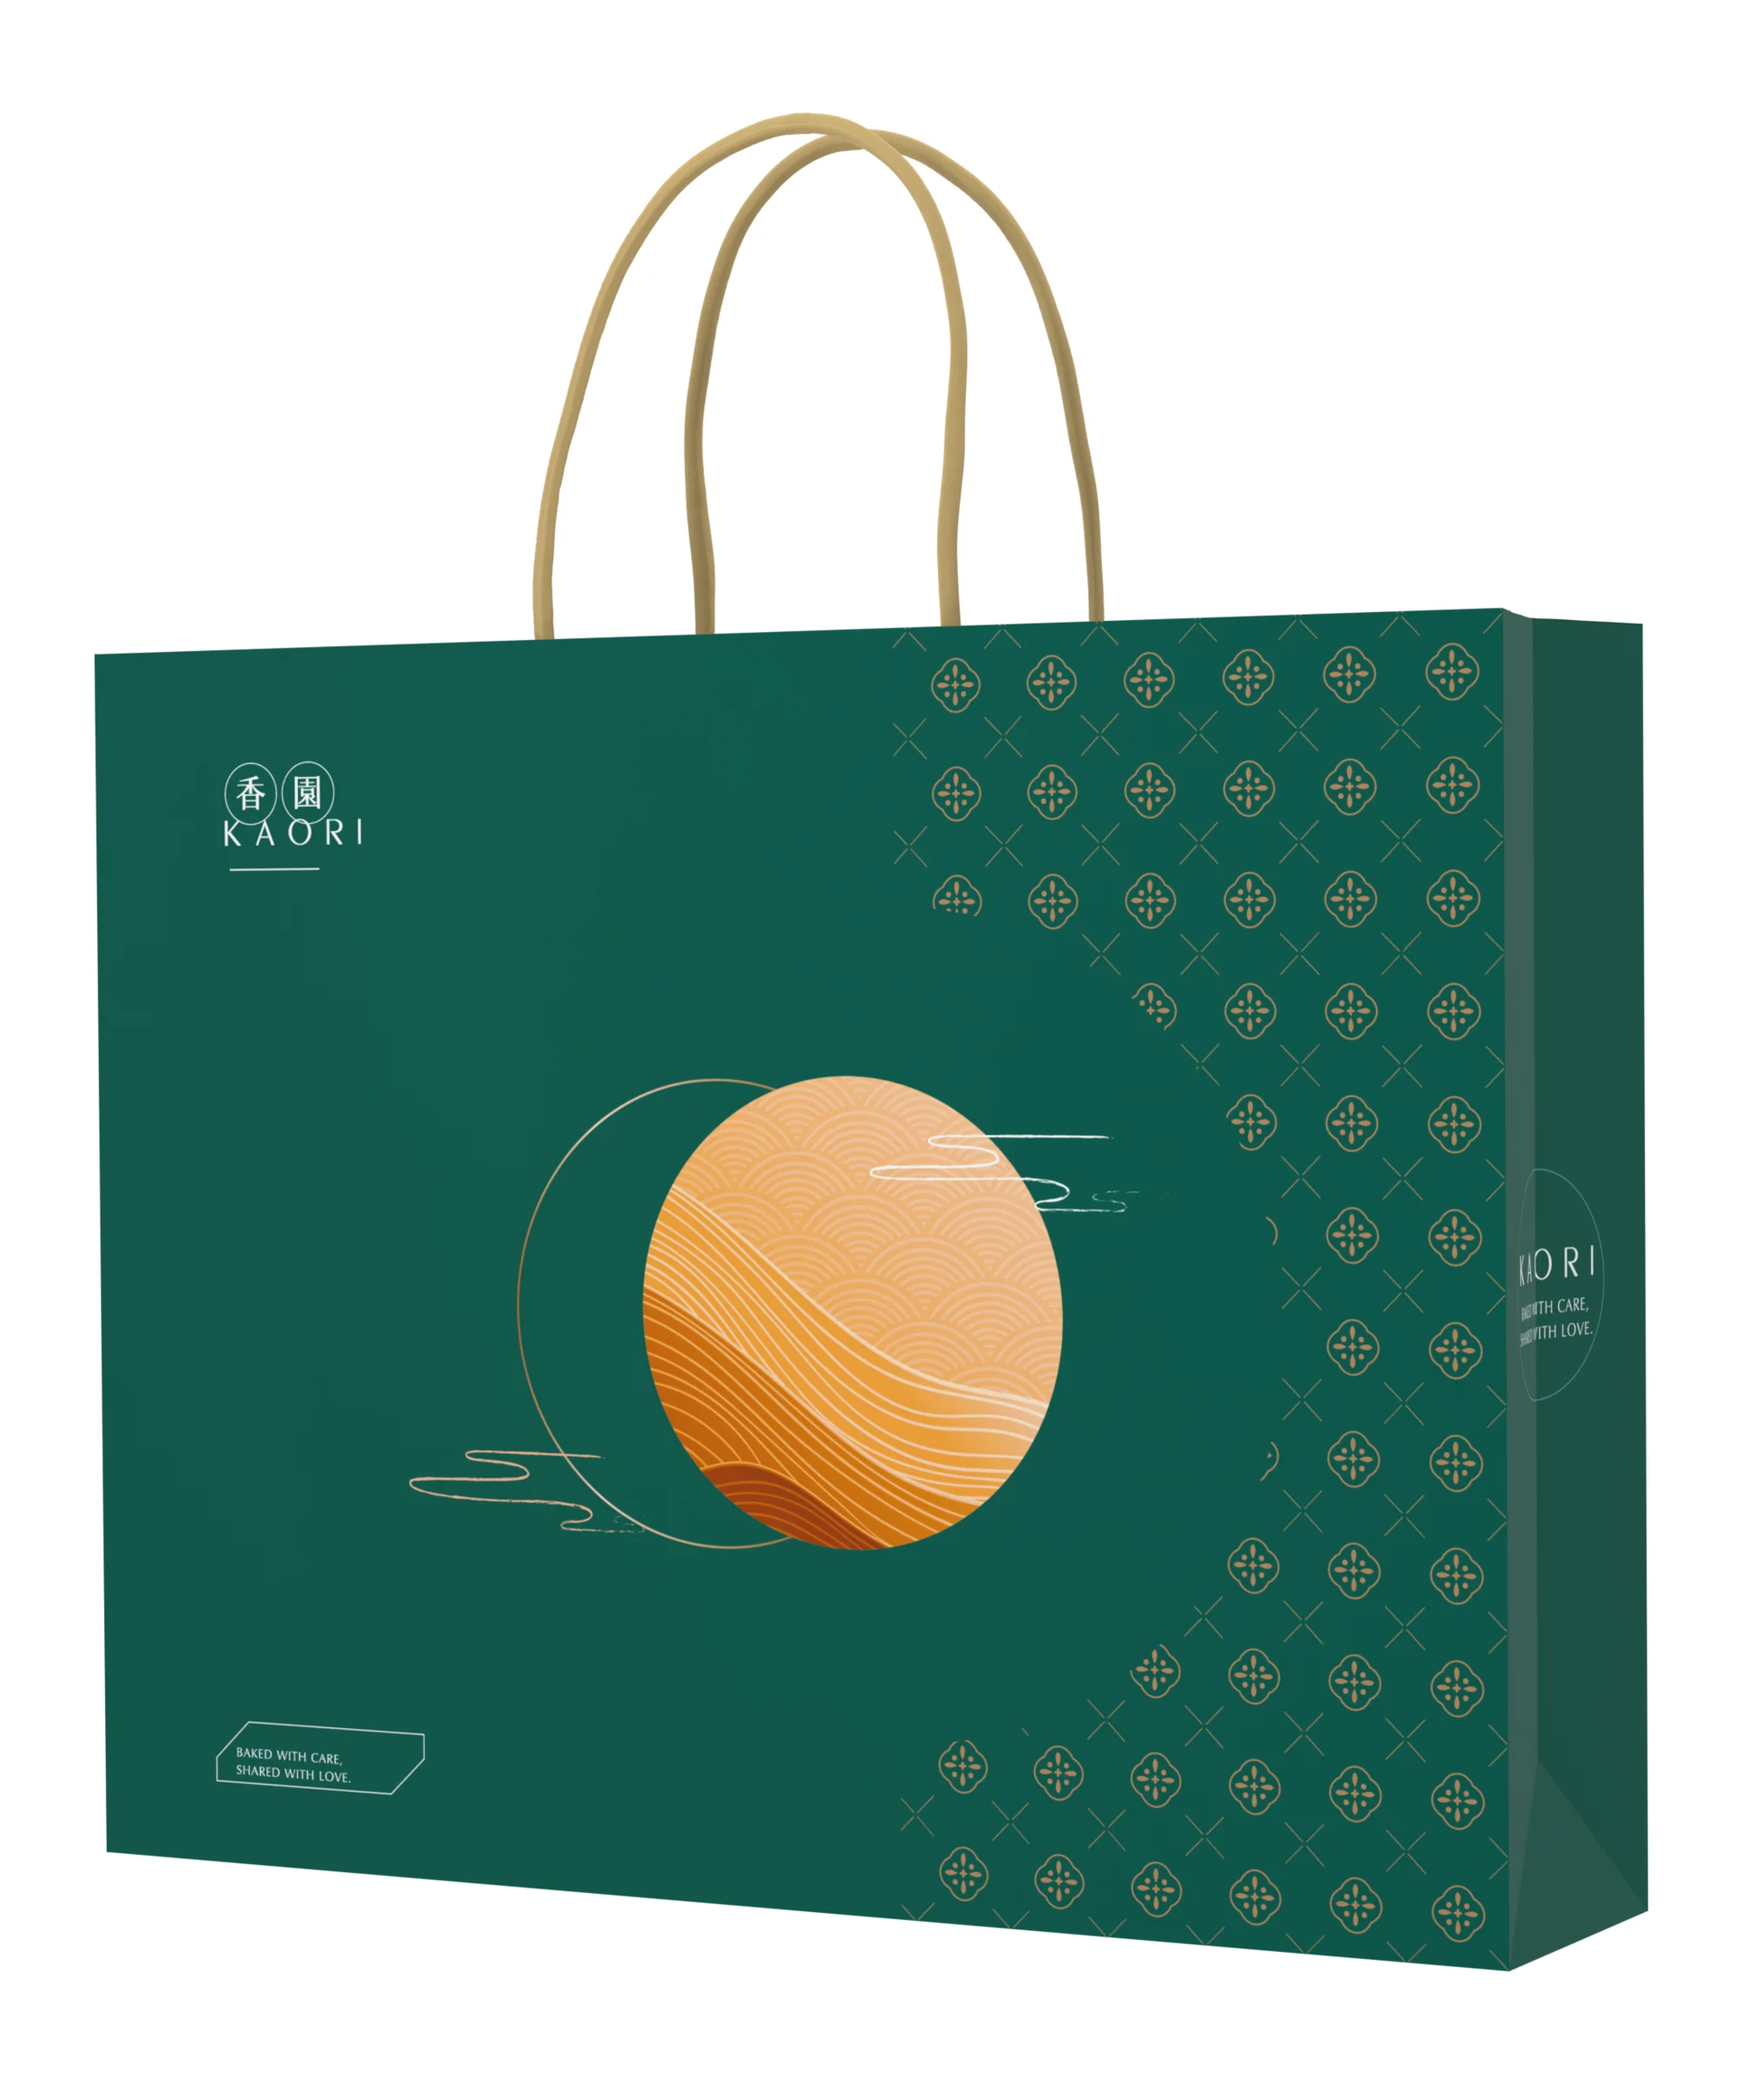
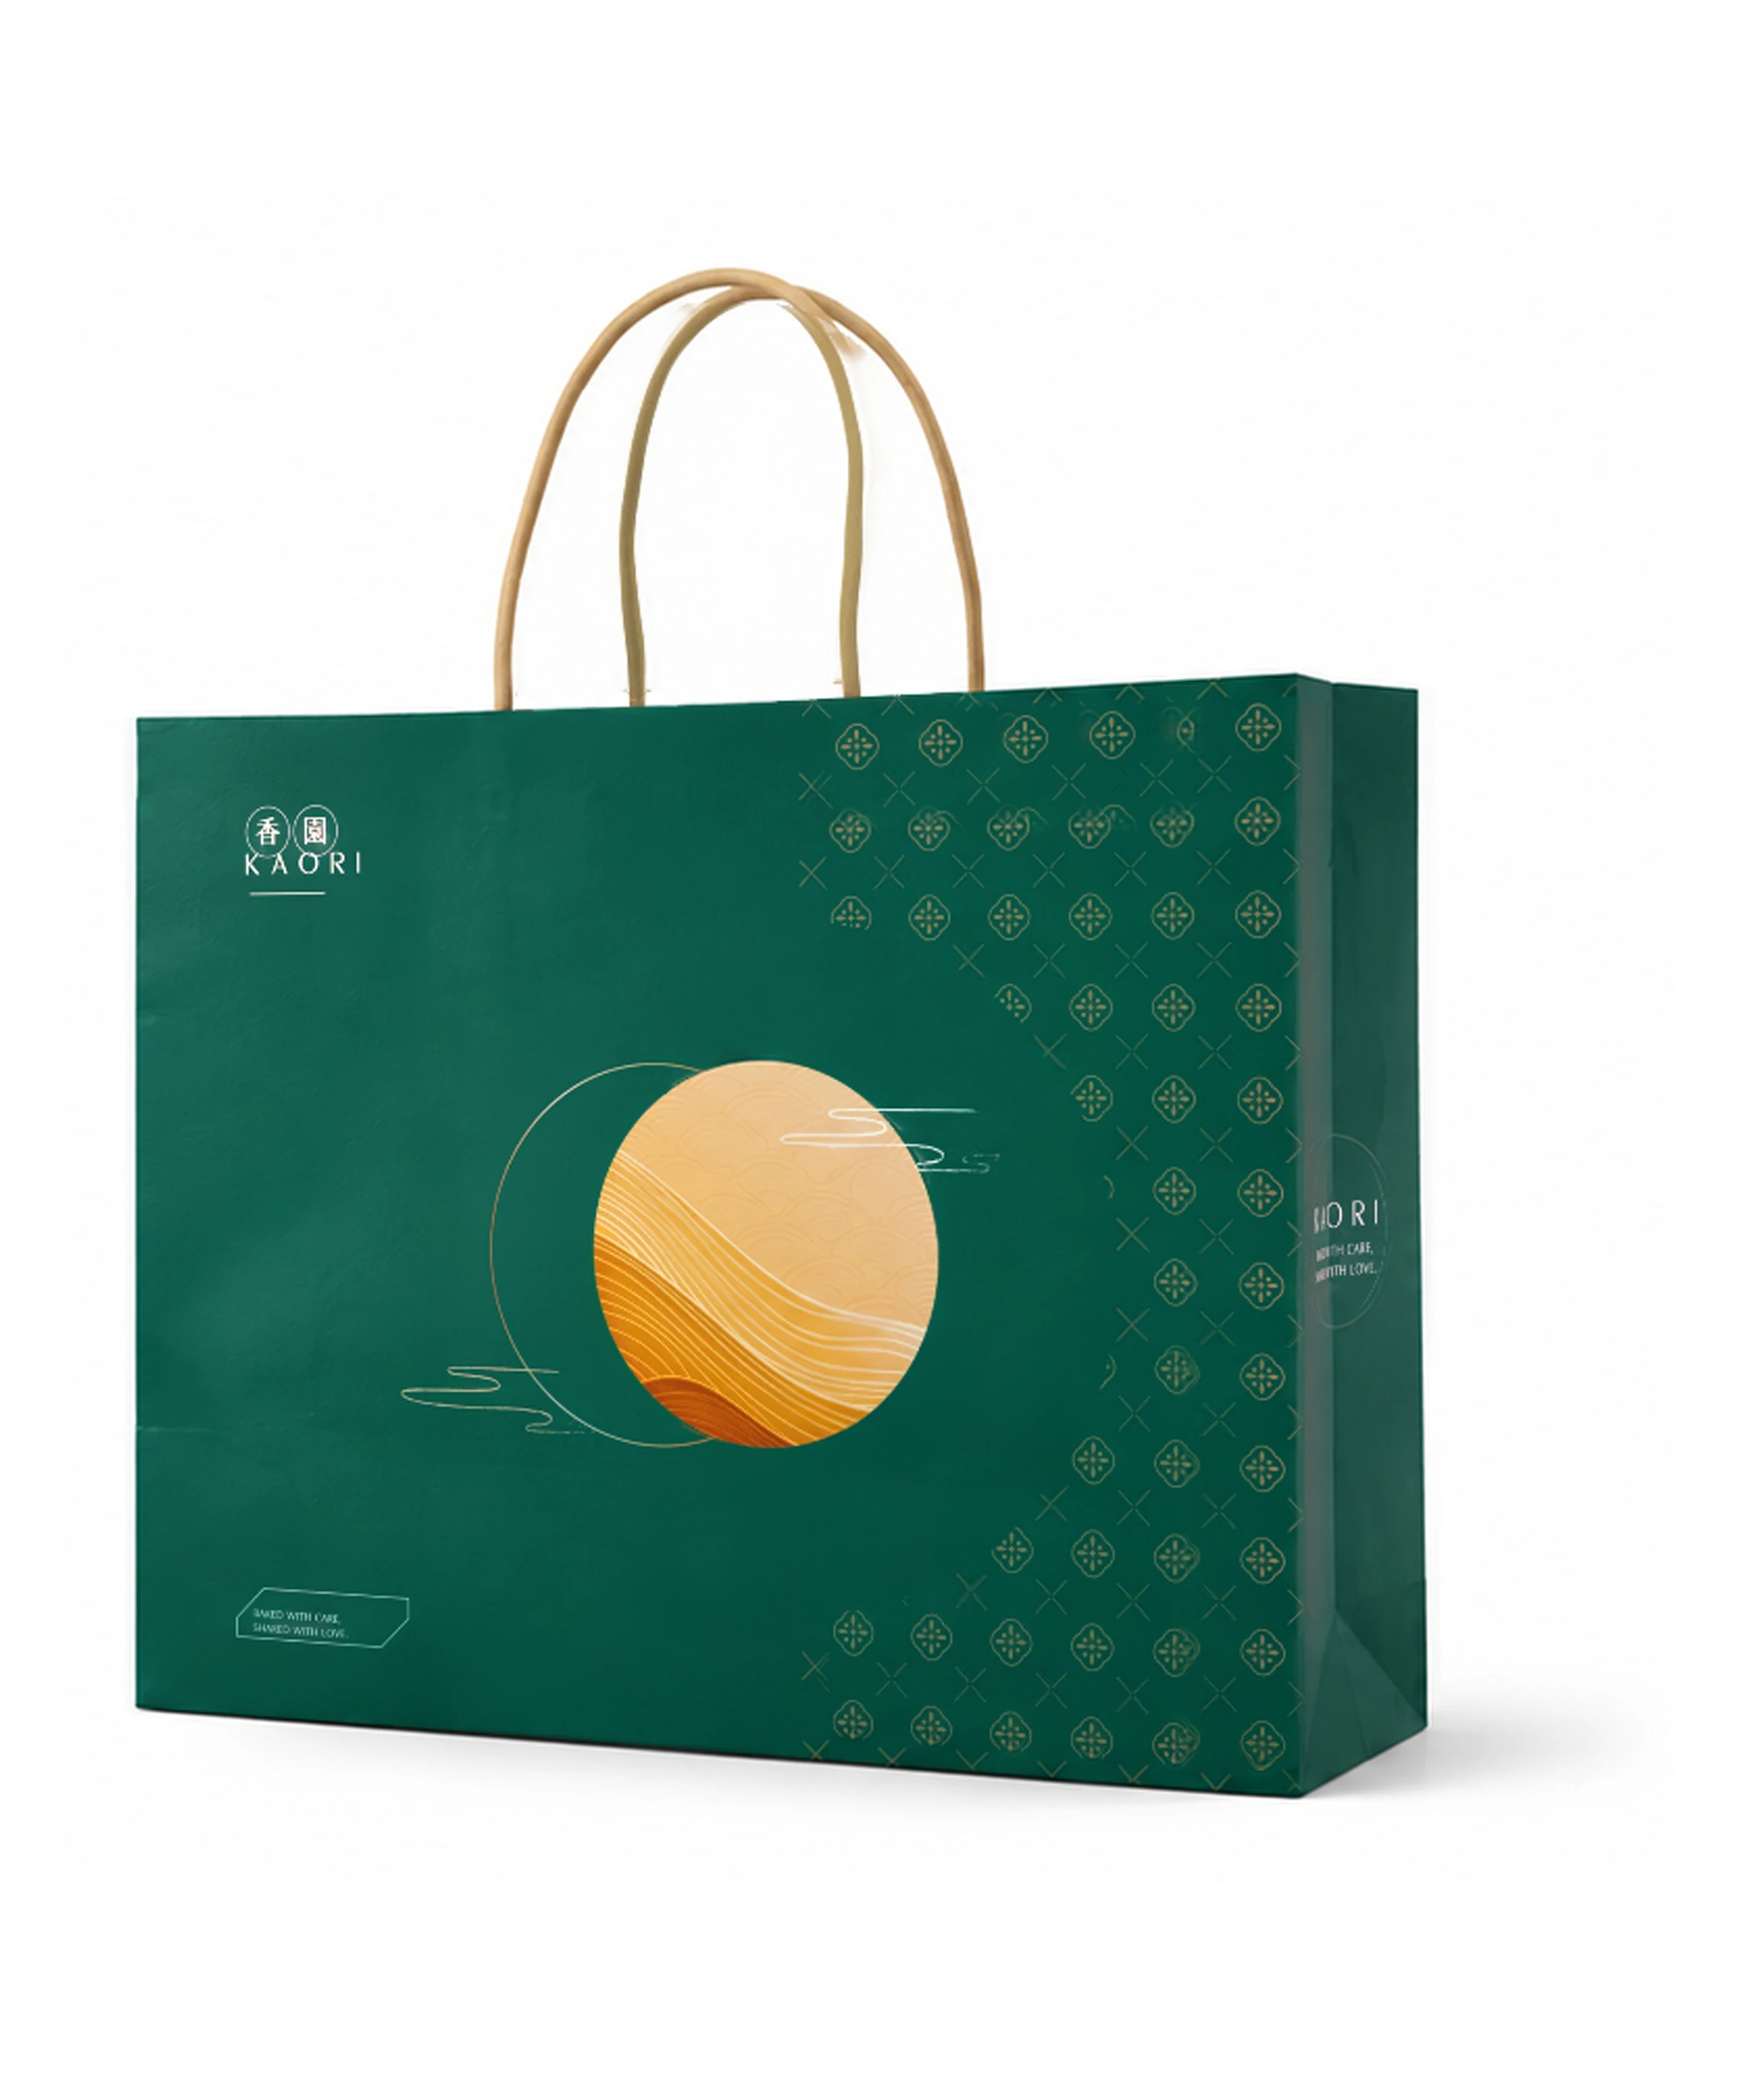
Cases: 香園 3D 圖全數材質校正（GPT 真實紙感＋原稿文字自動對位還原）
Claude-Session: https://claude.ai/code/session_01FHAxfGfD8vpumr7C1YBcXa

diff --git a/cases/xiangyuan.html b/cases/xiangyuan.html
@@ -35,13 +35,13 @@
 </header>
 <figure class="rl-hero"><img class="rl-pg" src="./old/xiangyuan/01.webp?v=mat1" alt="香園紀念教養院 KAORI 01" loading="eager"></figure>
 <section class="rl-reel">
-  <img class="rl-pg" src="./old/xiangyuan/02.webp?v=261127n" alt="香園紀念教養院 KAORI 02" loading="lazy" decoding="async">
-  <img class="rl-pg" src="./old/xiangyuan/03.webp?v=261127n" alt="香園紀念教養院 KAORI 03" loading="lazy" decoding="async">
-  <img class="rl-pg" src="./old/xiangyuan/04.webp?v=261127n" alt="香園紀念教養院 KAORI 04" loading="lazy" decoding="async">
-  <img class="rl-pg" src="./old/xiangyuan/05.webp?v=261127n" alt="香園紀念教養院 KAORI 05" loading="lazy" decoding="async">
-  <img class="rl-pg" src="./old/xiangyuan/06.webp?v=261127n" alt="香園紀念教養院 KAORI 06" loading="lazy" decoding="async">
-  <img class="rl-pg" src="./old/xiangyuan/07.webp?v=261127n" alt="香園紀念教養院 KAORI 07" loading="lazy" decoding="async">
-  <img class="rl-pg" src="./old/xiangyuan/08.webp?v=261127n" alt="香園紀念教養院 KAORI 08" loading="lazy" decoding="async">
+  <img class="rl-pg" src="./old/xiangyuan/02.webp?v=mat1" alt="香園紀念教養院 KAORI 02" loading="lazy" decoding="async">
+  <img class="rl-pg" src="./old/xiangyuan/03.webp?v=mat1" alt="香園紀念教養院 KAORI 03" loading="lazy" decoding="async">
+  <img class="rl-pg" src="./old/xiangyuan/04.webp?v=mat1" alt="香園紀念教養院 KAORI 04" loading="lazy" decoding="async">
+  <img class="rl-pg" src="./old/xiangyuan/05.webp?v=mat1" alt="香園紀念教養院 KAORI 05" loading="lazy" decoding="async">
+  <img class="rl-pg" src="./old/xiangyuan/06.webp?v=mat1" alt="香園紀念教養院 KAORI 06" loading="lazy" decoding="async">
+  <img class="rl-pg" src="./old/xiangyuan/07.webp?v=mat1" alt="香園紀念教養院 KAORI 07" loading="lazy" decoding="async">
+  <img class="rl-pg" src="./old/xiangyuan/08.webp?v=mat1" alt="香園紀念教養院 KAORI 08" loading="lazy" decoding="async">
 </section>
 <div class="rl-end"><a href="./"><i>←</i>回到全部作品</a></div>
 </article></main>
